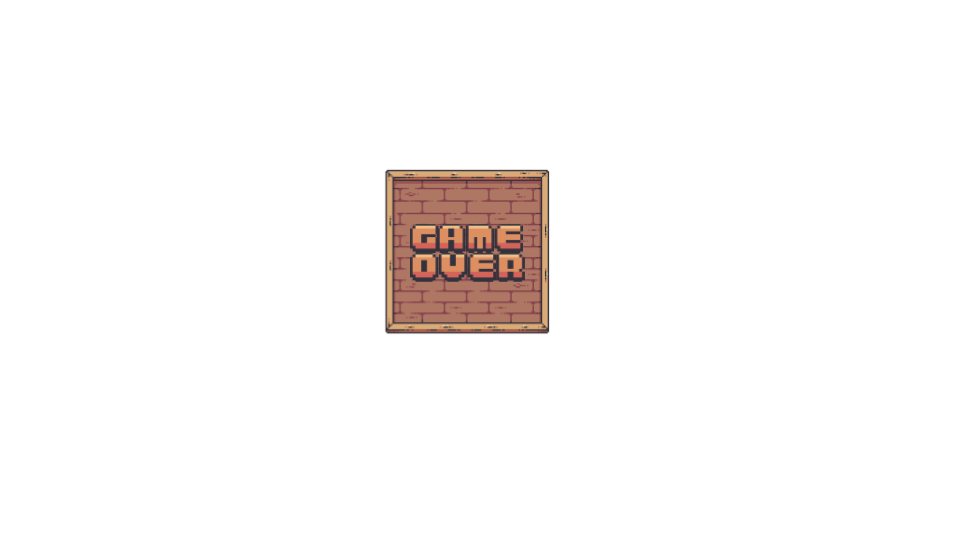
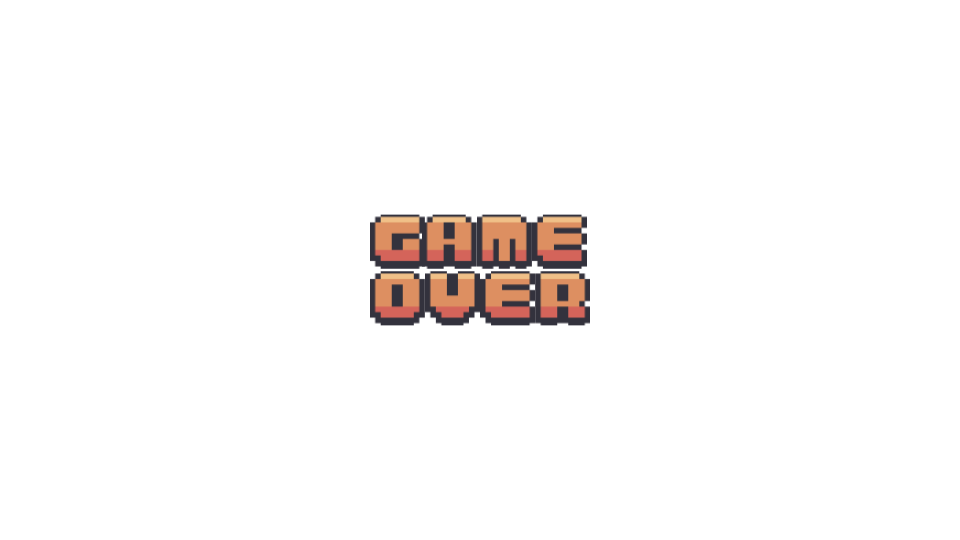
Fixed game over and main menu screens

Changed region(s): [[0.375, 0.2963, 0.625, 0.6222]]

diff --git a/2d-Mario/2-Level/code/main.py b/2d-Mario/2-Level/code/main.py
@@ -153,11 +153,11 @@ class Game:
         self.coins = 0
         self.diamonds = 0
         self.score = 0
-        self.lives = 5
+        self.lives = 1
         # Level Checkpoints if the player gets a game over and chooses to restart
         # Player starts at the beginning of the farthest world completed
         if self.max_level < 6:
-            self.max_level = 0
+            self.max_level = 19
         elif 6 < self.max_level < 11:
             self.max_level = 6
         elif 12 < self.max_level <= 17:
@@ -178,7 +178,7 @@ class Game:
     # Game Over State
     def game_over(self):
         bg = pygame.image.load(
-            '../graphics/overworld/menu.png').convert_alpha()
+            '../graphics/overworld/main_menu.png').convert_alpha()
         screen.blit(bg, (0, 0))
 
         game_over_photo_1 = pygame.image.load(
@@ -192,7 +192,7 @@ class Game:
         screen.blit(game_over_photo_1, game_over_1_rect)
 
         game_over_2_rect = game_over_photo_2.get_rect(
-            center=(screen_width/2 - 13, screen_height/2 + 100))
+            center=(screen_width/2, screen_height/2 + 100))
         screen.blit(game_over_photo_2, game_over_2_rect)
 
         keys = pygame.key.get_pressed()
@@ -203,21 +203,21 @@ class Game:
     # Main Menu state
     def main_menu(self):
         bg = pygame.image.load(
-            '../graphics/overworld/menu.png').convert_alpha()
+            '../graphics/overworld/main_menu.png').convert_alpha()
         screen.blit(bg, (0, 0))
 
         intro_photo_1 = pygame.image.load(
-            '../graphics/overworld/Intro_1.png').convert_alpha()
+            '../graphics/overworld/main_menu_1.png').convert_alpha()
 
         intro_photo_2 = pygame.image.load(
-            '../graphics/overworld/Intro_2.png').convert_alpha()
+            '../graphics/overworld/main_menu_2.png').convert_alpha()
 
         intro_1_rect = intro_photo_1.get_rect(
-            center=(screen_width/2 + 17, screen_height/2 - 75))
+            center=(screen_width/2, screen_height/2 - 75))
         screen.blit(intro_photo_1, intro_1_rect)
 
         intro_2_rect = intro_photo_2.get_rect(
-            center=(screen_width/2 - 17, screen_height/2 + 125))
+            center=(screen_width/2, screen_height/2 + 125))
         screen.blit(intro_photo_2, intro_2_rect)
 
         keys = pygame.key.get_pressed()

diff --git a/2d-Mario/2-Level/code/overworld.py b/2d-Mario/2-Level/code/overworld.py
@@ -37,6 +37,8 @@ class Node(pygame.sprite.Sprite):
             self.image.blit(tint_surface, (0, 0))
 
 # Icon of the hat, which navigates the level select screen
+
+
 class Icon(pygame.sprite.Sprite):
     def __init__(self, pos):
         super().__init__()
@@ -76,7 +78,7 @@ class Overworld():
         # Time
         self.start_time = pygame.time.get_ticks()
         self.allow_input = False
-        self.time_length = 400
+        self.time_length = 800
         # World Images
         self.world_1 = pygame.image.load(
             "../graphics/overworld/World_1.png").convert_alpha()
